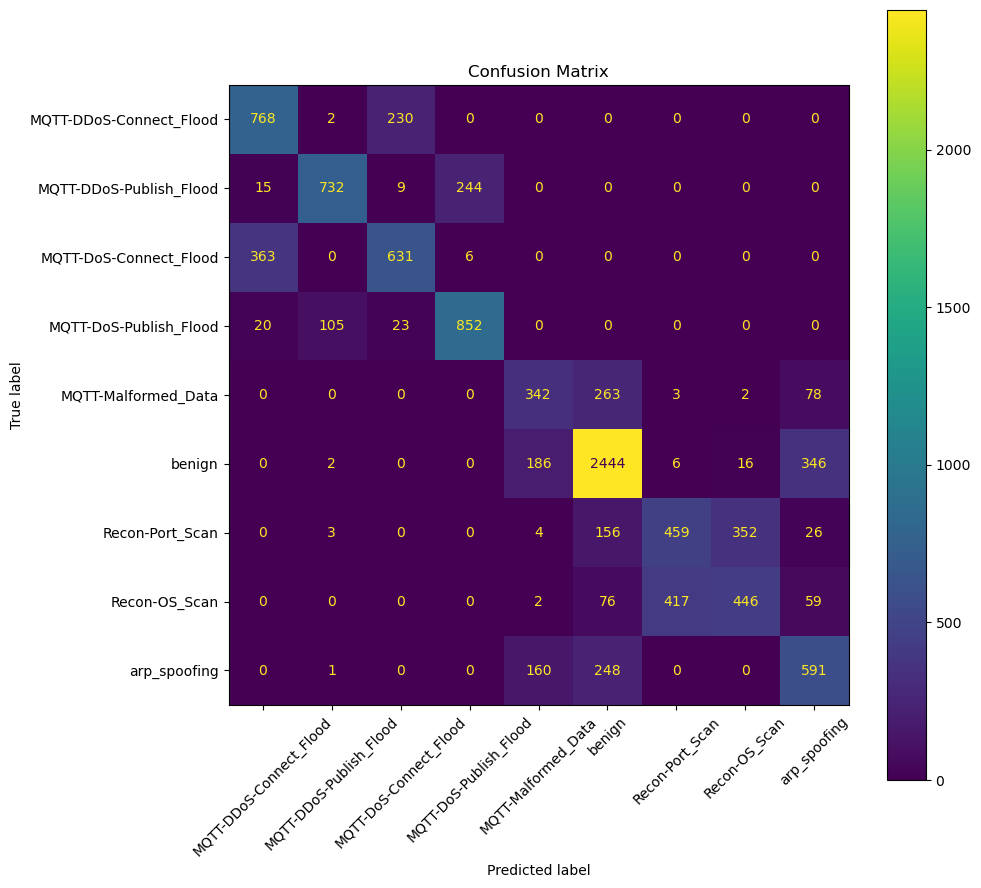
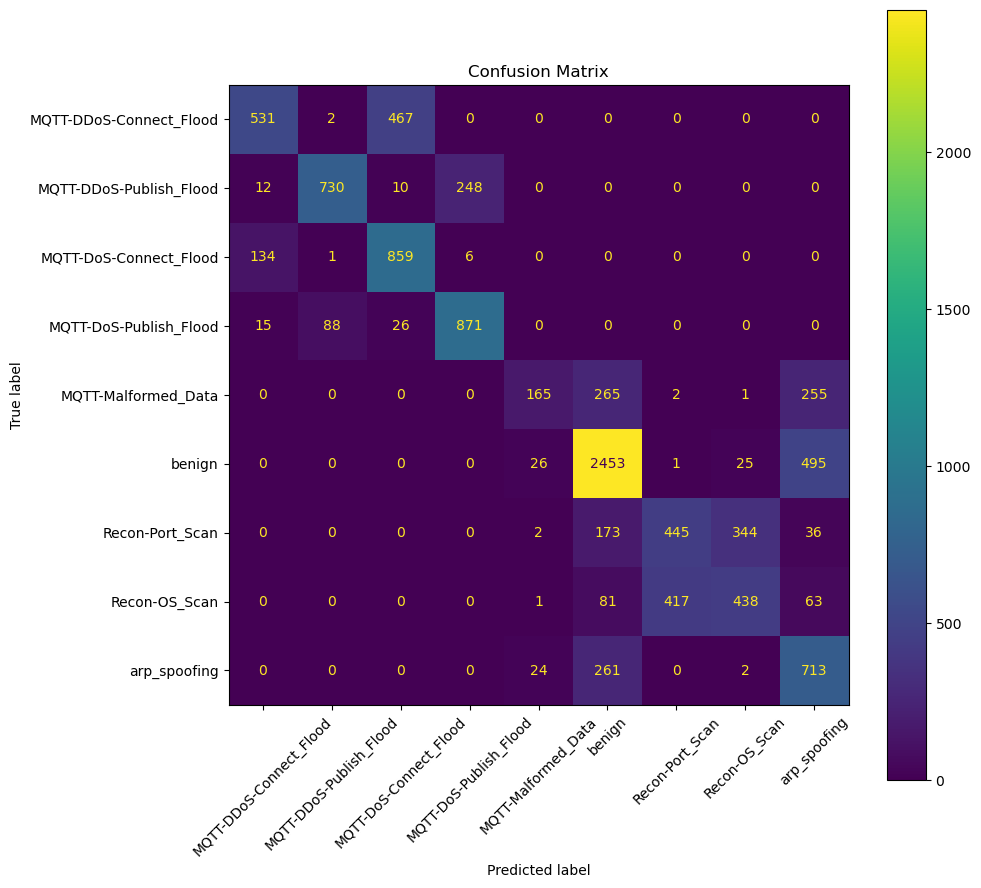
save

diff --git a/LTNtorch/LTN_IoMT/LTN_IoMT_4_9.py b/LTNtorch/LTN_IoMT/LTN_IoMT_4_9.py
@@ -1,3 +1,4 @@
+import ltn.fuzzy_ops
 import torch
 import pandas as pd
 import ltn
@@ -98,7 +99,9 @@ def compute_sat_level(loader):
                                                           P(x, l_MQTT_Malformed_Data), P(x, l_benign),
                                                           P(x, l_Recon_OS_Scan), P(x, l_Recon_Port_Scan),
                                                           P(x, l_arp_spoofing)))))
-
+        # rules - hierarchy
+        valid_forall_expressions.append(Exists(x, And(P(x, l_Benign), P(x, l_benign))))
+        valid_forall_expressions.append(Exists(x, And(P(x, l_ARP_Spoofing), P(x, l_arp_spoofing))))
 
         mean_sat += SatAgg(*valid_forall_expressions)
     # In the loop: mean_sat accumulates the satisfaction levels for all the logical rules across the batches.
@@ -166,7 +169,7 @@ def compute_accuracy(loader):
 
 #####################Preprocess#################################
 # 加载数据集
-processed_train_file = '/home/zyang44/Github/baseline_cicIOT/CIC_IoMT/19classes/filtered_train_s_4_9.csv'
+processed_train_file = '/home/zyang44/Github/baseline_cicIOT/CIC_IoMT/19classes/filtered_train_tiny_4_9.csv'
 processed_test_file = '/home/zyang44/Github/baseline_cicIOT/CIC_IoMT/19classes/filtered_test_4_9.csv'
 
 train_data = pd.read_csv(processed_train_file)
@@ -229,6 +232,7 @@ And = ltn.Connective(custom_fuzzy_ops.AndProd())
 # And = ltn.Connective(ltn.fuzzy_ops.AndProd())
 Or = ltn.Connective(ltn.fuzzy_ops.OrProbSum())
 Forall = ltn.Quantifier(ltn.fuzzy_ops.AggregPMeanError(p=2), quantifier="f")
+Exists = ltn.Quantifier(ltn.fuzzy_ops.AggregPMean(p=2), quantifier="e")
 SatAgg = ltn.fuzzy_ops.SatAgg()
 
 print("LTN setting done.")
@@ -244,13 +248,13 @@ print("Create train and test loader done.")
 
 #####################querying setting#####################################
 Implies = ltn.Connective(ltn.fuzzy_ops.ImpliesReichenbach())
-def phi1(features):   # True, for all x, P(x, l_Benign) -> not P(x, l_MQTT), because the label_L1 exclusive
+def phi1(features):   # True 
     x = ltn.Variable("x", features)
-    return Forall(x, Implies(P(x, l_Benign), Not(P(x, l_MQTT))), p=5)
+    return Forall(x, Implies(P(x, l_Benign), (P(x, l_ARP_Spoofing))), p=5)
 
-def phi2(features):  # False
+def phi2(features):  # True
     x = ltn.Variable("x", features)
-    return Forall(x, Implies(P(x, l_Benign), (P(x, l_MQTT))), p=5)
+    return Forall(x, Implies(P(x, l_Benign), (P(x, l_benign))), p=5)
 
 def phi3(features):  # False
     x = ltn.Variable("x", features)
@@ -272,9 +276,9 @@ def compute_sat_level_phi(loader, phi):
 print("Querying setting.")
 
 print("Start training...")
-optimizer = torch.optim.Adam(P.parameters(), lr=0.002)
+optimizer = torch.optim.Adam(P.parameters(), lr=0.001)
 
-for epoch in range(70):
+for epoch in range(40):
     train_loss = 0.0
 
     for batch_idx, (data, label_L1, label_L2) in enumerate(train_loader):
@@ -319,12 +323,16 @@ for epoch in range(70):
 
         # rules - L1 class exclusive for each other
         valid_forall_expressions.append(Forall(x, Not(And(P(x, l_MQTT), P(x, l_Benign), P(x, l_Recon), P(x, l_ARP_Spoofing)))))
-        # rules - L2 MQTT exclusive
+        # rules - L2 exclusive
         valid_forall_expressions.append(Forall(x, Not(And(P(x, l_MQTT_DDoS_Connect_Flood), P(x, l_MQTT_DDoS_Publish_Flood), 
                                                           P(x, l_MQTT_DoS_Connect_Flood), P(x, l_MQTT_DoS_Publish_Flood),
                                                           P(x, l_MQTT_Malformed_Data), P(x, l_benign),
                                                           P(x, l_Recon_OS_Scan), P(x, l_Recon_Port_Scan),
                                                           P(x, l_arp_spoofing)))))
+        # rules - hierarchy
+        valid_forall_expressions.append(Exists(x, And(P(x, l_Benign), P(x, l_benign))))
+        valid_forall_expressions.append(Exists(x, And(P(x, l_ARP_Spoofing), P(x, l_arp_spoofing))))
+        
 
         sat_agg = SatAgg(*valid_forall_expressions) # the satisfaction level over the current batch
         loss = 1. - sat_agg
@@ -348,9 +356,11 @@ for epoch in range(70):
                  f"Test Acc L1 {test_acc[0]:.3f} | Test Acc L2 {test_acc[1]:.3f}")
     if epoch % 10 == 0:
         print(f"Test Sat Phi 1 {compute_sat_level_phi(test_loader, phi1):.3f} | Test Sat Phi 2 {compute_sat_level_phi(test_loader, phi2):.3f} | "
-              f"Test Sat Phi 3 {compute_sat_level_phi(test_loader, phi3):.3f} | Test Sat Phi 4 {compute_sat_level_phi(test_loader, phi4):.3f}")
+            #   f"Test Sat Phi 3 {compute_sat_level_phi(test_loader, phi3):.3f} | Test Sat Phi 4 {compute_sat_level_phi(test_loader, phi4):.3f}"
+              )
         logging.info(f"Test Sat Phi 1 {compute_sat_level_phi(test_loader, phi1):.3f} | Test Sat Phi 2 {compute_sat_level_phi(test_loader, phi2):.3f} | "
-                     f"Test Sat Phi 3 {compute_sat_level_phi(test_loader, phi3):.3f} | Test Sat Phi 4 {compute_sat_level_phi(test_loader, phi4):.3f}")
+                    #  f"Test Sat Phi 3 {compute_sat_level_phi(test_loader, phi3):.3f} | Test Sat Phi 4 {compute_sat_level_phi(test_loader, phi4):.3f}"
+                     )
 
 #####################Evaluation#################################
 class_names = [
@@ -408,4 +418,4 @@ def plot_confusion_matrix(loader, model, class_names, filename="confusion_matrix
     print(f"Confusion matrix saved to {filepath}")
 
 # Example usage
-plot_confusion_matrix(test_loader, mlp, class_names, filename="confusion_matrix_3.png")
+plot_confusion_matrix(test_loader, mlp, class_names, filename="confusion_matrix_2.png")
